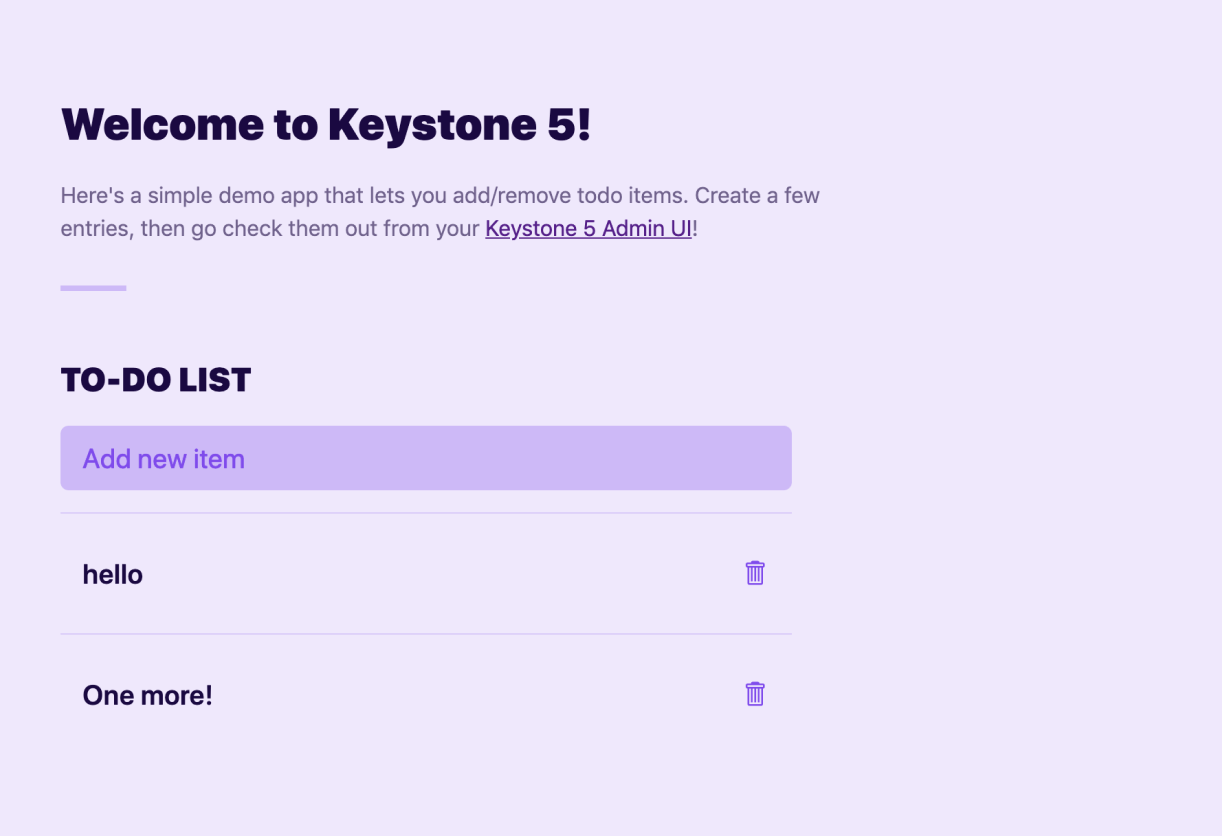
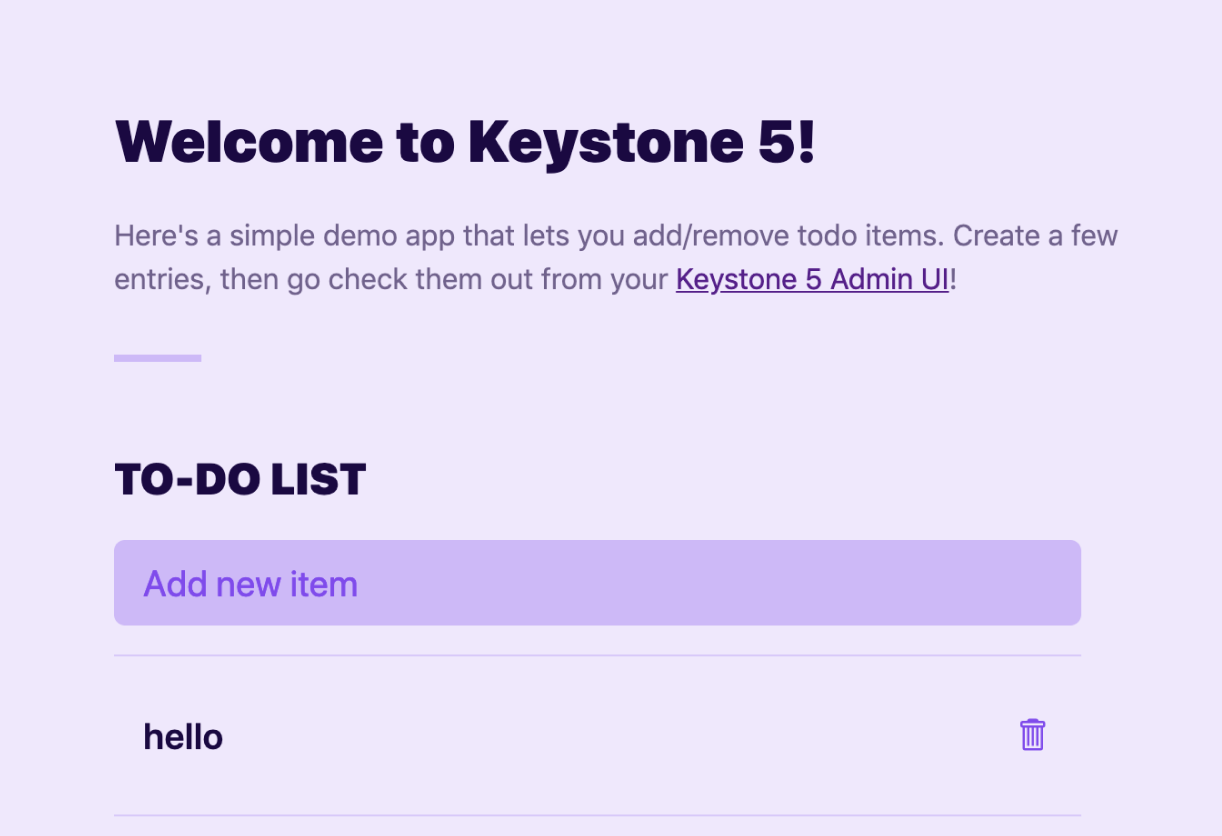
re-cropping images, changing template in create-keystone-app and running new changeset

diff --git a/.changeset/825aeca5/changes.md b/.changeset/825aeca5/changes.md
@@ -1,0 +1,1 @@
+- Updating the template to match the changes in the todo demo app
